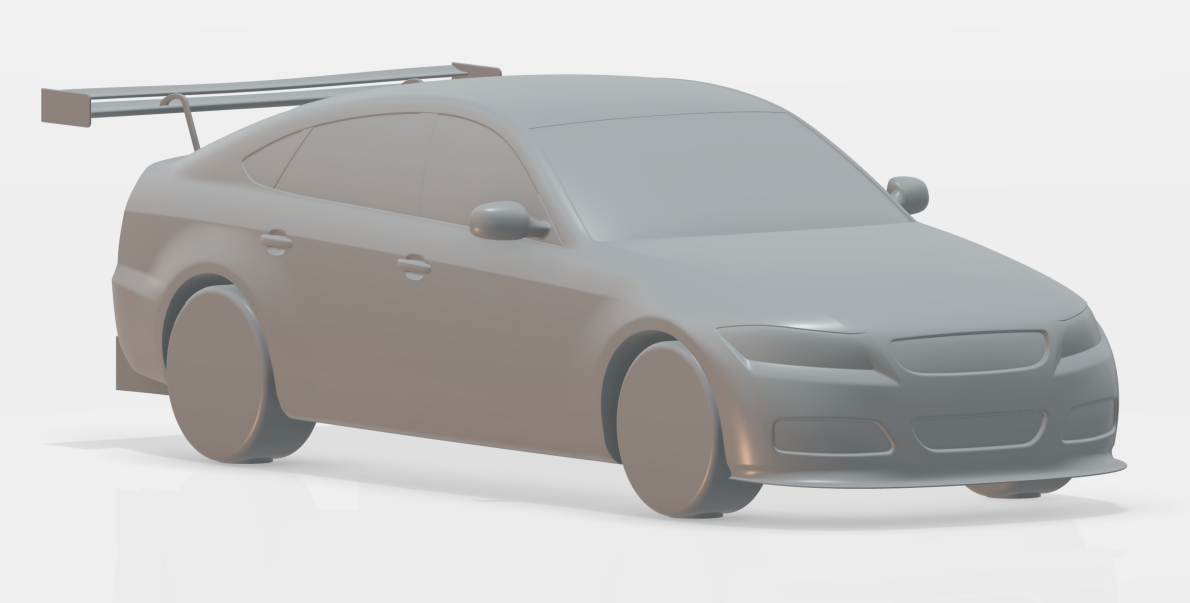
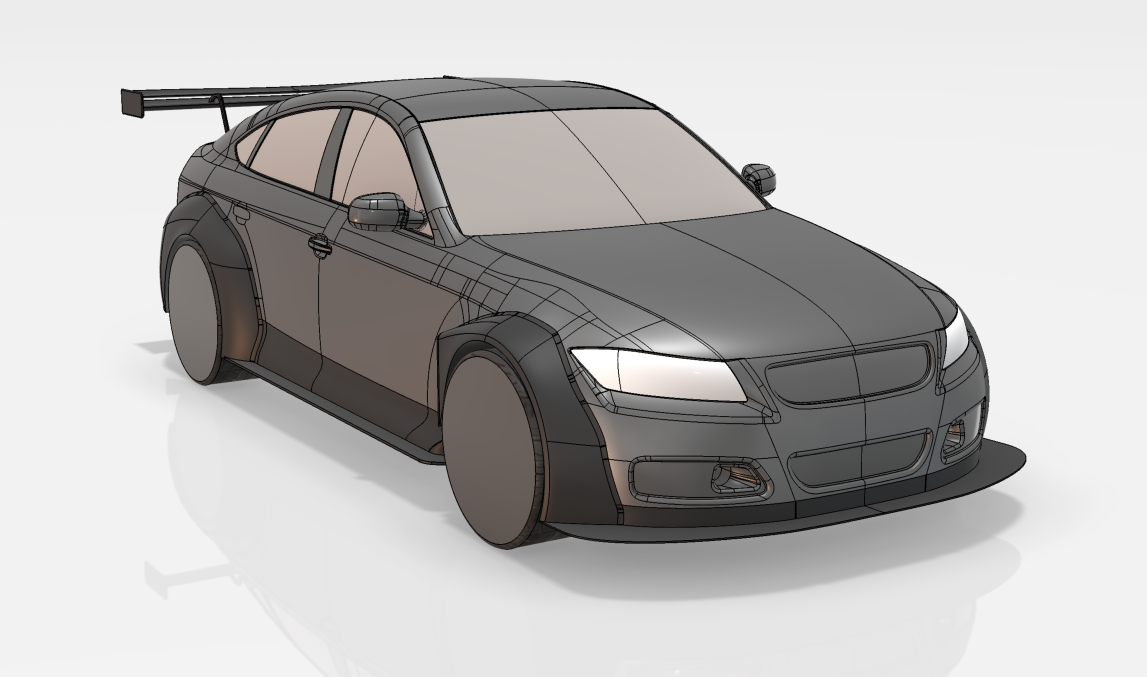
new file:   Assets/Images/Drivaer/Thumbnail.jpg

diff --git a/Project2.html b/Project2.html
@@ -22,8 +22,8 @@
     <header class="project-header">
         <div class="container">
             <div class="text-center">
-                <h1 class="project-title">Drivaer High Performance Fastback</h1>
-                <p class="project-subtitle">Design of a high performance aerodynamic package including rear wing, diffuser, and splitter following the methodologhy described in the <a href="./DesignMethodology.html" class="link-primary">Design Methodology</a> section.</p>
+                <h1 class="project-title">GT3 Aero Package Design</h1>
+                <p class="project-subtitle">Design of a high performance aerodynamic package including rear wing, diffuser, splitter, bodywork and brake cooling following the methodologhy described in the <a href="./DesignMethodology.html" class="link-primary">Design Methodology</a> section.</p>
                 <div class="project-visual my-4" style="display:flex; justify-content:center;">
                     <img src="Assets/Images/Drivaer/transformation.png" alt="Drivaer transformation" class="img-fluid clickable-image" data-full="Assets/Images/Drivaer/transformation.png" style="width:100%; height:auto; max-height:320px; object-fit:cover;">
                 </div>
@@ -69,7 +69,7 @@
                         <div class="row g-4">
                             <div class="col-12">
                                 <div class="methodology-item h-100">
-                                    <img src="Assets/Images/Drivaer/Thumbnail.png" alt="Drivaer Model" class="methodology-image">
+                                    <img src="Assets/Images/Drivaer/Thumbnail2.png" alt="Drivaer Model" class="methodology-image">
                                     <div>
                                         <strong>CFD Workflow:</strong>
                                         Used Star CCM+ for steady-state CFD simulations through a mesh independence study and the evaluation of the flowfield around the fastback.

diff --git a/index.html b/index.html
@@ -259,11 +259,11 @@
                     <div class="col-lg-4 col-md-6">
                     <div class="card h-100">
                         <div class="card-img-wrapper">
-                            <img src="Assets/Images/Drivaer/Thumbnail.png" class="card-img-top" alt="Drivaer Thumbnail">
+                            <img src="Assets/Images/Drivaer/Thumbnail.jpg" class="card-img-top" alt="Drivaer Thumbnail">
                         </div>
                         <div class="card-body d-flex flex-column">
-                            <h5 class="card-title">Drivaer High Performance Fastback</h5>
-                            <p class="card-text flex-grow-1">CFD study of the Drivaer fastback model and design of a high performance aerodynamic package.</p>
+                            <h5 class="card-title">GT3 Aerodynamic Design</h5>
+                            <p class="card-text flex-grow-1">Design of a GT3 aeropackage for the Drivaer fastback model.</p>
                             <a href="./Project2.html" class="btn btn-primary mt-auto">View Details</a>
                         </div>
                     </div>
